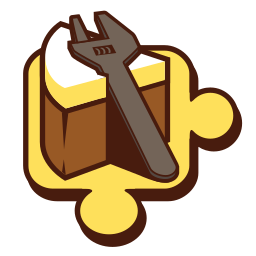
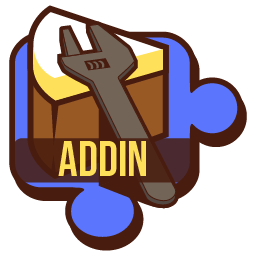
Update to Cake 2.0

diff --git a/RELEASENOTES.md b/RELEASENOTES.md
@@ -1,3 +1,11 @@
+### 0.3.0
+Update to Cake 2.0.0
+Add framework support for `netcoreapp3.1`, `net6.0`
+Drop framework support for `net461`, `netstandard2.0`
+Update contrib icon
+Update dependencies
+Add GitHub Action
+
 ### 0.2.6
 Add framework support for `net461`, `netstandard2.0`, `net5.0`
 
